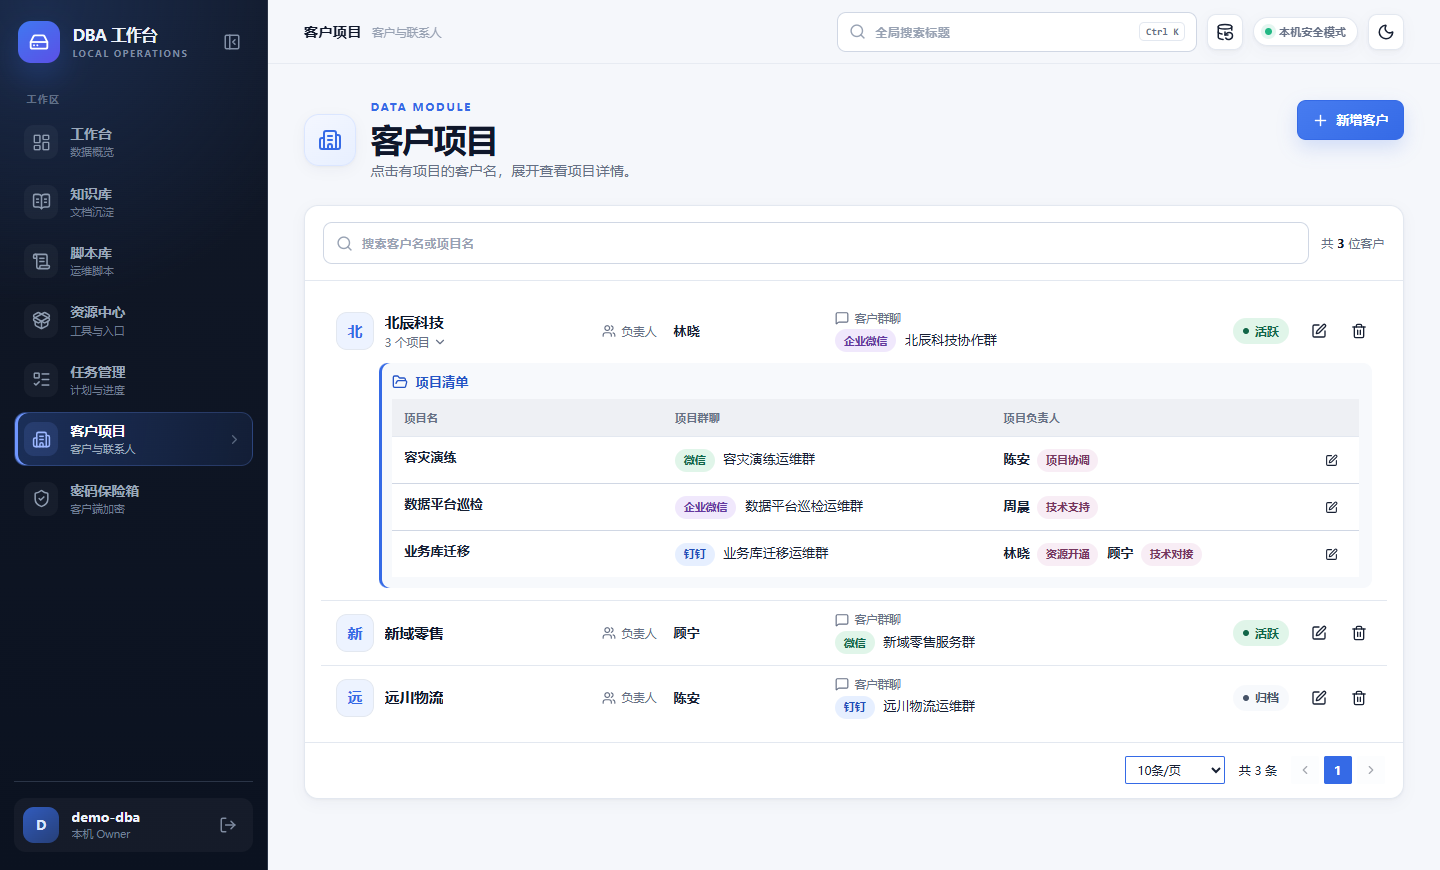
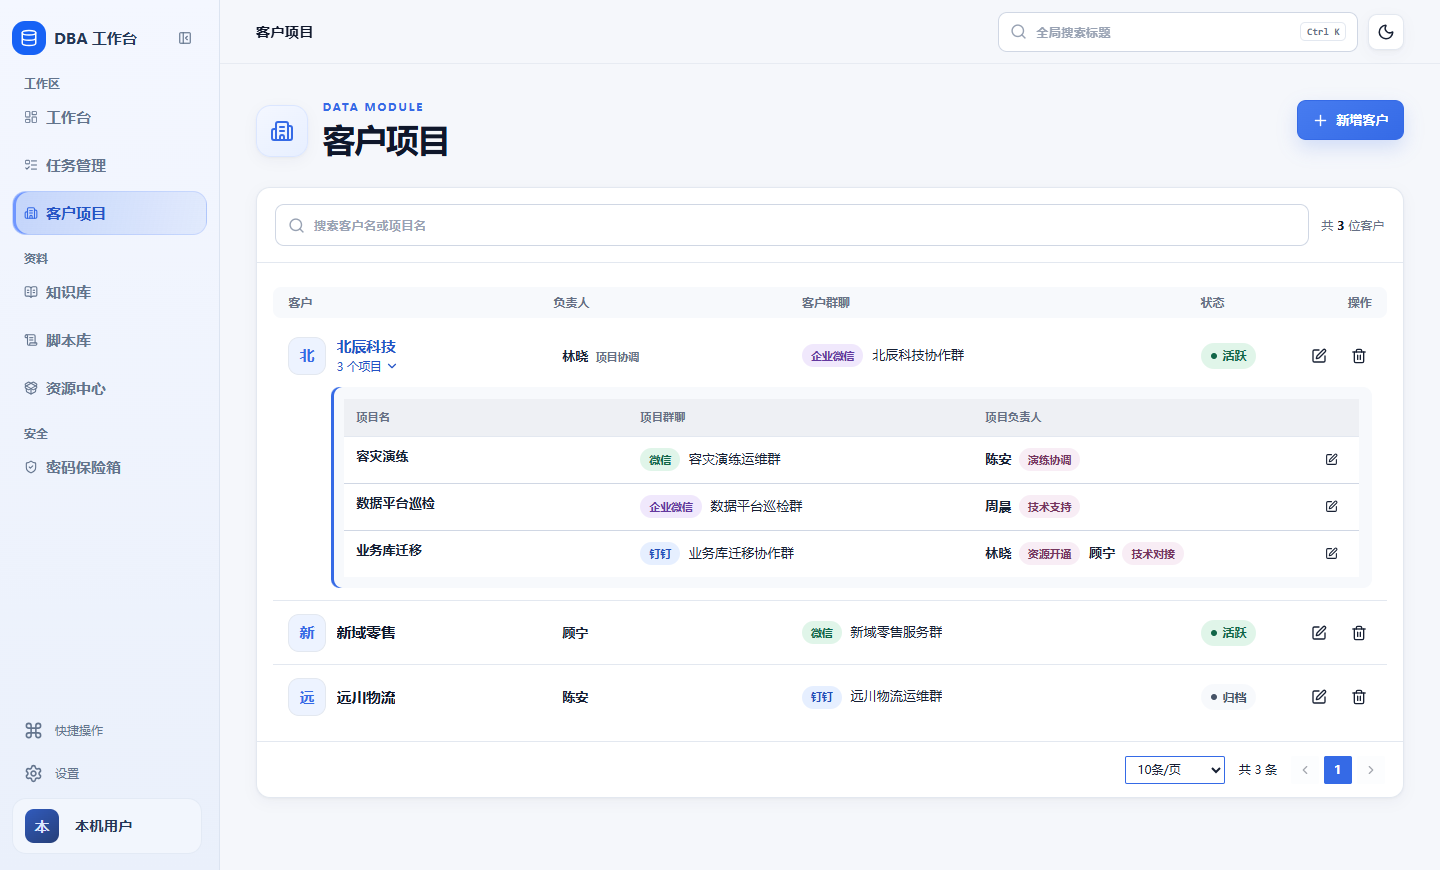
docs: simplify README and refresh interface previews

diff --git a/README.md b/README.md
@@ -4,7 +4,7 @@
 
 # DBA 工作台
 
-面向数据库工程师的 Windows 本地工作台。
+面向数据库工程师的 Windows 本地工作台，集中管理运维资料、任务、客户项目和凭据。
 
 [下载安装](https://github.com/Rainues412/dba-workbench/releases/latest) · [功能概览](#功能概览) · [从源码运行](#从源码运行) · [问题反馈](https://github.com/Rainues412/dba-workbench/issues)
 
@@ -13,15 +13,9 @@
 
 </div>
 
-## 为什么使用 DBA 工作台？
-
-排障时经常要在脚本文件夹、交接文档和待办列表之间来回查找。DBA 工作台把运维脚本、技术资料、客户项目、任务和加密凭据集中到一个桌面应用，数据保存在本机 SQLite 数据库中。
-
 ## 界面预览
 
-截图使用演示数据。
-
-**工作台总览**可查看近期任务、资料统计和数据库类型分布。
+工作台总览（演示数据）
 
 ![工作台总览，展示资产统计、近期任务和数据库类型分布](docs/screenshots/dashboard.png)
 
@@ -37,33 +31,31 @@
 | 模块 | 可以做什么 |
 | --- | --- |
 | 脚本库 | 按数据库和用途整理运维脚本，筛选并预览脚本文本。 |
-| 知识库 | 整理排障记录和技术文档，预览 PDF、Office 和 Markdown。Markdown 支持按目录跳转。 |
-| 资源中心 | 集中管理安装包、工具和常用链接，支持从已授权的目录批量导入。 |
-| 任务管理 | 设置截止日期和优先级，在工作台查看逾期与待办。已完成任务满 15 天后归档，可按需恢复。 |
-| 客户项目 | 按客户展开项目，查看群聊及平台、负责人和职责标签。支持按客户名或项目名搜索，并在项目行直接编辑。 |
-| 密码保险箱 | 用主密码解锁本地加密凭据，支持自动锁定、手动和自动备份，以及本机恢复和换机导入。 |
+| 知识库 | 整理排障记录和技术文档，预览 PDF、Office 和 Markdown。 |
+| 资源中心 | 管理安装包、工具和常用链接，支持从授权目录批量导入。 |
+| 任务管理 | 设置优先级和截止日期，跟踪待办、逾期及已归档任务。 |
+| 客户项目 | 按客户管理项目、群聊和负责人，支持搜索和行内编辑。 |
+| 密码保险箱 | 用主密码解锁加密凭据，支持自动备份、本机恢复和换机导入。 |
 
 ## 安装与使用
 
-1. 从 [GitHub Releases](https://github.com/Rainues412/dba-workbench/releases/latest) 下载 `DBA-Workbench-Setup-<版本>-x64.exe` 及同名 `.sha256` 文件。用 PowerShell 的 `Get-FileHash -Algorithm SHA256` 核对安装包。
-2. 在 Windows 10/11 x64 上双击 EXE 安装，安装包内置运行时和文件查看器。安装包未签名，Windows 可能提示发布者未知。
-3. 从桌面快捷方式打开工作台。首次使用密码保险箱时，按页面提示设置主密码和密保问题。关闭窗口后默认可从桌面快捷方式或系统托盘重新打开。要停止服务，请在托盘菜单选择「退出」。
+1. 从 [GitHub Releases](https://github.com/Rainues412/dba-workbench/releases/latest) 下载 Windows 10/11 x64 安装包及 `.sha256` 文件，用 `Get-FileHash -Algorithm SHA256` 校验后安装。
+2. 从桌面快捷方式启动。窗口关闭后默认驻留托盘，可从快捷方式或托盘重新打开。停止服务时，在托盘选择「退出」。
+3. 首次使用密码保险箱时，按提示设置主密码和密保问题。
 
-覆盖安装前先退出工作台并备份数据。卸载默认保留应用数据。安装版的功能以对应发布说明为准。
+安装包未签名，Windows 可能提示发布者未知。覆盖安装前请从托盘退出并备份数据，卸载默认保留数据。安装版功能以对应发布说明为准。
 
 ## 数据与隐私
 
-- 工作台只通过本机地址访问。安装版的数据目录为 `%LOCALAPPDATA%\DBA Workbench\data`，源码运行默认使用 `server`。
-- 凭据以加密形式保存。在「设置 → 密码库安全」可以管理主密码、闲置锁定和 Windows 本机自动解锁。忘记主密码时，可答对密保问题并通过本机恢复密钥重置。
-- 如需备份整个工作台，先从托盘退出，再复制数据目录中的 `workspace.db`。已有的保险箱主密码恢复密钥 `.vault_recovery_private.pem` 和 `.vault_recovery_public.pem` 也需保管，私钥与数据库备份分开保存。换机后，请重新授权外部资料所在目录，并更新有变动的文件路径。
+- 工作台仅供本机访问，使用 SQLite 存储数据。安装版数据目录为 `%LOCALAPPDATA%\DBA Workbench\data`，源码版默认为 `server`。
+- 备份整个工作台前，请从托盘退出，再复制 `workspace.db`。如已创建保险箱，请同时保管主密码恢复密钥 `.vault_recovery_private.pem` 和 `.vault_recovery_public.pem`，私钥与数据库副本分开放置。
 
 ### 密码保险箱备份
 
-在「设置 → 密码库安全 → 备份与恢复」管理加密备份。手动备份可直接执行，自动备份默认每 24 小时运行并保留最近 10 份自动备份。间隔和保留数量均可调整。修改主密码后，已有备份仍可恢复。
+从「设置 → 密码库安全 → 备份与恢复」打开备份目录或创建加密备份。源码版备份存于项目根目录下的 `backups`。自动备份默认每 24 小时运行，保留最近 10 份自动备份。
 
-- **备份位置**：页面显示固定的备份目录，可点击旁边的按钮打开。源码版的备份位于项目根目录下的 `backups`，安装版位于数据目录下的 `backups`。列表中的名称对应实际文件，支持重命名、删除和恢复。
-- **本机恢复**：在备份列表选择「恢复」，验证当前主密码后确认。工作台使用受 Windows 保护的本机密钥读取备份。已有条目会在覆盖前先备份。
-- **换机导入**：从旧电脑复制任一 `.age` 备份及「密钥存放目录」中的对应 `.key` 文件。在新电脑设置主密码后，选择「导入」，验证新电脑的主密码，选择这两个文件并预览条目，再确认导入。请分开保管备份和恢复密钥。
+- **本机恢复**时，在备份列表选择「恢复」，验证当前主密码后确认。
+- **换机导入**前，先在新电脑设置主密码。选择「导入」，验证主密码后选取旧电脑的 `.age` 备份和对应的 `.key` 恢复密钥。备份和密钥请分开保管。
 
 ## 从源码运行
 
@@ -77,24 +69,19 @@ py -3.12 -m venv .runtime\.venv
 .\.runtime\.venv\Scripts\pythonw.exe tools\windows\launch_dba_workbench.py
 ```
 
-源码启动器使用系统的 Microsoft Edge WebView2 Runtime，关闭窗口后仍可从系统托盘重新打开。WebView2 不可用时回退到浏览器。从启动器打开时会自动进入工作台。
-
-设置中的「窗口与启动」提供开机启动、静默启动和关闭时最小化到托盘。开机启动在当前 Windows 用户登录后运行；静默启动可独立开启，控制手动启动和登录自启时是否只显示托盘图标，再次打开软件或选择托盘「打开工作台」可显示窗口。关闭开机启动不会改变静默启动设置。「关闭时最小化到托盘」默认开启，关闭后窗口的关闭按钮会退出工作台；浏览器回退模式请从托盘退出。源码版与安装版的启动项分别登记，源码版设置保存在 `.runtime/desktop-settings.json`，安装版保存在数据目录的 `desktop-settings.json`。源码启动器支持 `--show-window` 强制显示窗口。
+启动器使用 WebView2，缺少运行时则回退到浏览器。「设置 → 窗口与启动」可调整开机启动、静默启动和关闭时最小化到托盘。
 
 如需在源码模式预览 Office、PDF 等文件，可通过 `DBA_FILE_VIEWER_HOME` 指向已构建的查看器目录。[查看器构建脚本](packaging/windows/build-file-viewer.ps1)
 
 <details>
 <summary>Tauri 桌面宿主开发预览</summary>
 
-开发验收需要 Windows Rust MSVC 工具链和已安装的前端依赖。先运行 `cargo build --locked --manifest-path src-tauri/Cargo.toml`，再用项目 Python 环境启动预览。
+需要 Windows Rust MSVC 工具链和前端依赖。预览使用独立的数据库和 WebView2 配置。
 
 ```powershell
+cargo build --locked --manifest-path src-tauri/Cargo.toml
 .\.runtime\.venv\Scripts\python.exe tools/windows/launch_dba_workbench_tauri.py --executable src-tauri/target/debug/dba-workbench-tauri.exe --work-dir '<现有测试目录>'
 ```
-
-启动脚本创建独立的测试数据库和 WebView2 配置。仪表盘、任务管理、全局搜索、脚本库、知识库、客户项目、资源中心的记录管理，以及本机会话状态和保险箱配置读取由 Rust 执行。会话签发、保险箱解锁和恢复、旧数据库升级及本机文件操作沿用现有 FastAPI 服务和权限。页面完成首次渲染后才显示窗口。从托盘选择「退出」结束预览和两个测试服务。
-
-Windows 源码快捷方式可以向 `launch_dba_workbench.py` 传入 `--tauri-host <EXE 路径>`，或在原桌面启动宿主的同一目录放置 `dba-workbench-tauri.exe`。现有数据库、WebView2 配置及启动偏好继续原位使用。
 
 </details>
 
@@ -111,8 +98,8 @@ npm run build
 Pop-Location
 ```
 
-生产前端输出到 `server/frontend_dist`。初始化 Git 子模块后，可运行 `.\packaging\windows\build-installer.ps1 -Version "<major.minor.patch>"` 生成安装包。打包时会重新构建前端，「关于」、程序文件和安装包统一使用此版本号；普通源码构建显示「开发版」。
+前端构建输出到 `server/frontend_dist`。Windows 安装包使用 [构建脚本](packaging/windows/build-installer.ps1) 生成。
 
 ## 反馈与贡献
 
-欢迎在 [GitHub Issues](https://github.com/Rainues412/dba-workbench/issues) 报告问题或提出建议，也欢迎提交 Pull Request。报告问题时可附上版本号、复现步骤和截图，请先移除凭据、密钥和客户数据。
+欢迎提交 Pull Request，或到 [GitHub Issues](https://github.com/Rainues412/dba-workbench/issues) 反馈问题。分享日志和截图前，请移除敏感数据。
